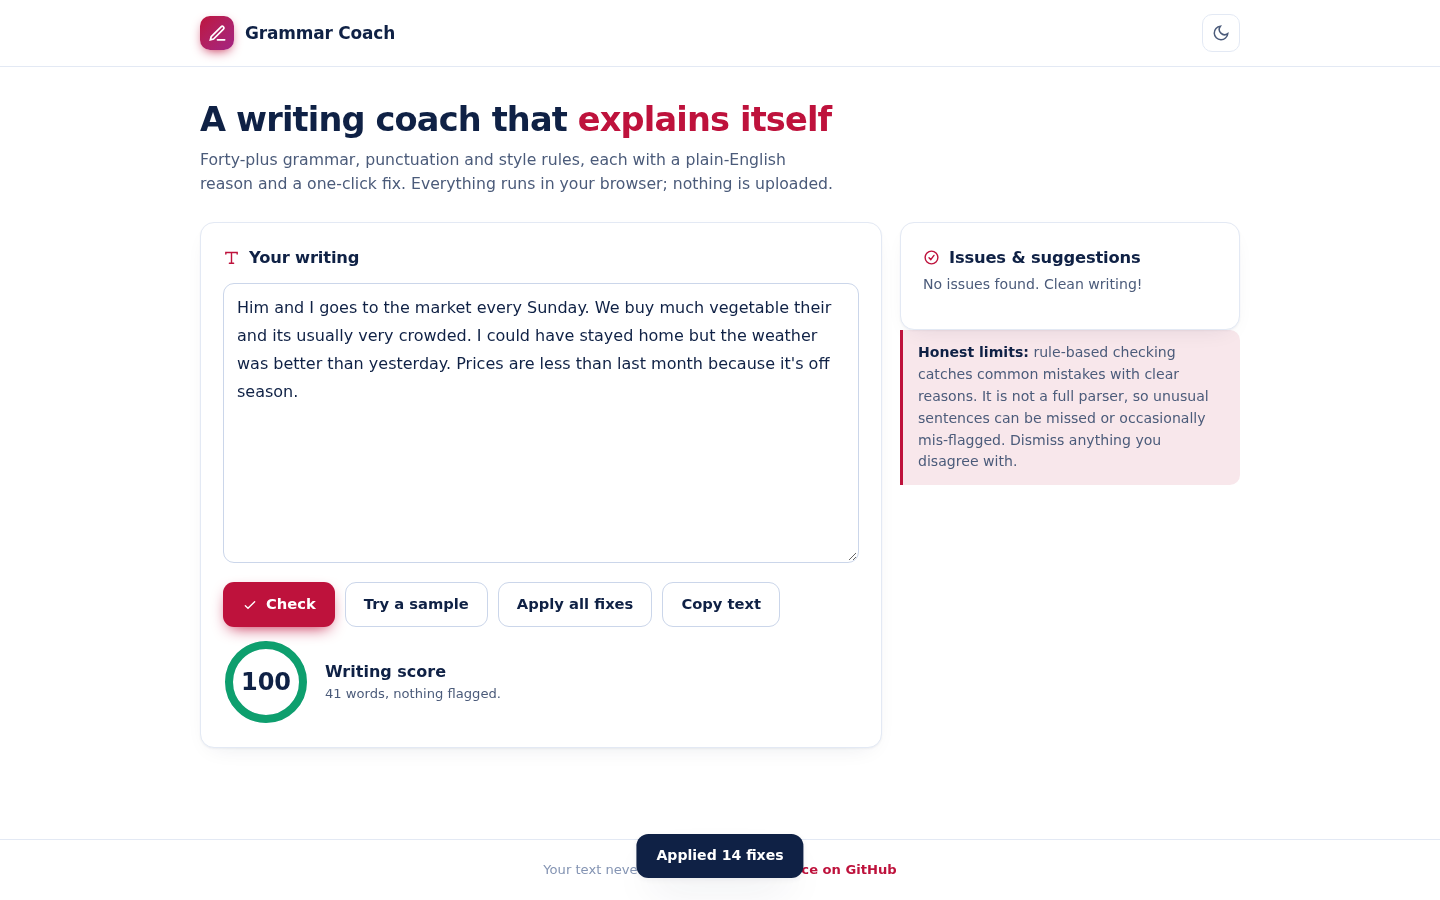
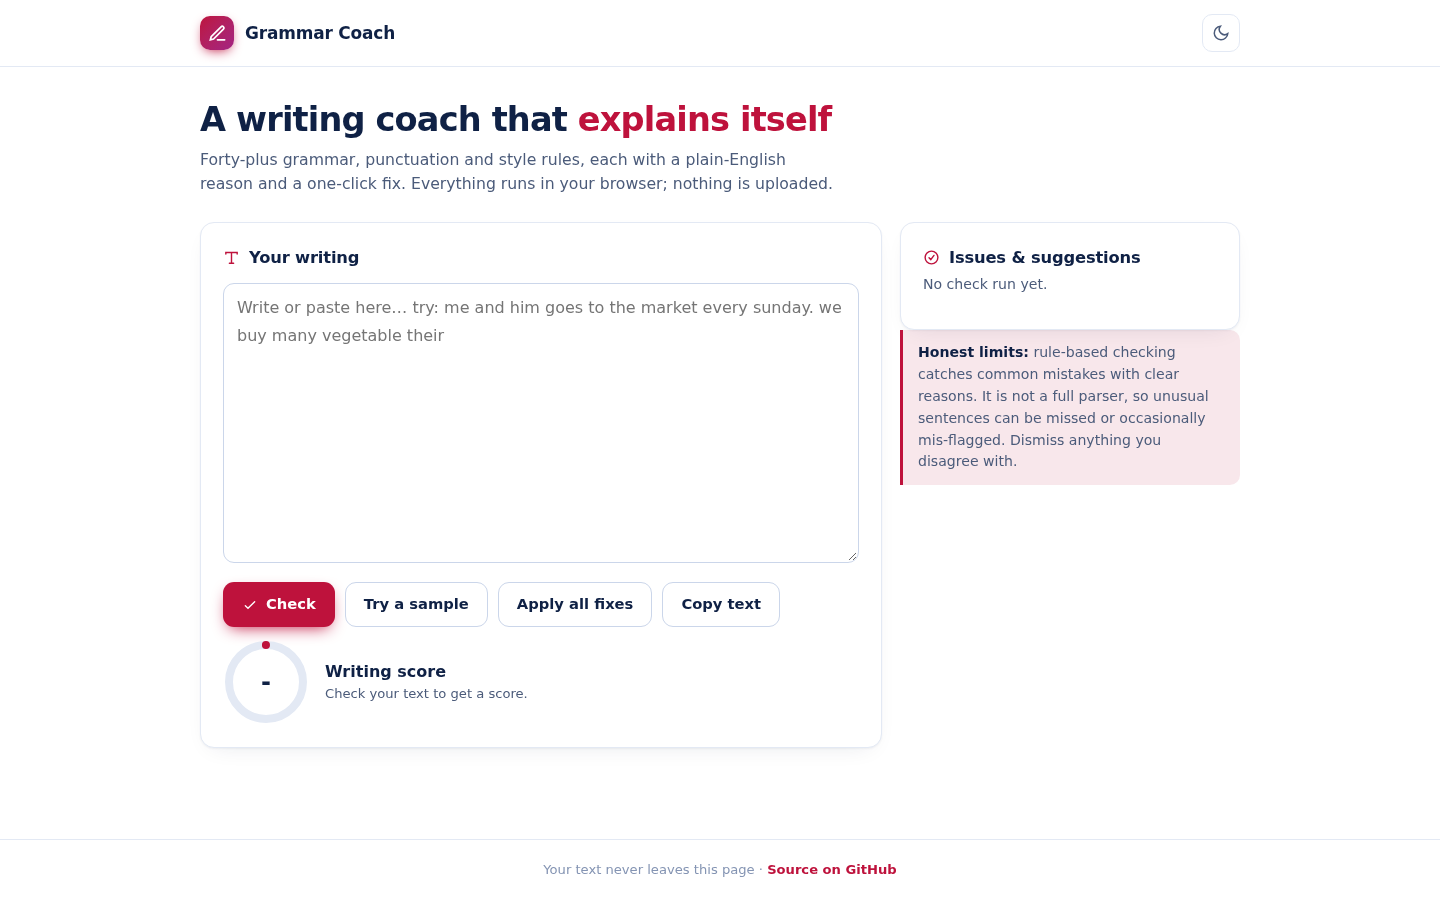
Add subject-verb agreement, subject pronoun case, and much/many countable rules

diff --git a/rules.js b/rules.js
@@ -17,11 +17,16 @@ const GRAMMAR_RULES=[
  {type:'grammar',re:/\bI\s+is\b/gi,msg:()=>`With "I", use "am".`,fix:()=>'I am'},
  {type:'grammar',re:/\b(he|she|it)\s+are\b/gi,msg:m=>`With "${m[1]}", use "is".`,fix:m=>m[1]+' is'},
  {type:'grammar',re:/\b(they|we|you)\s+is\b/gi,msg:m=>`With "${m[1]}", use "are".`,fix:m=>m[1]+' are'},
- {type:'grammar',re:/\b(he|she|it)\s+(go|do|have|say|make|take|come|run|play|eat|go|work|live|like|want|need)\b/gi,msg:m=>`Third person singular needs "${m[2]}${/[^ae]/.test(m[2][m[2].length-1])?'s':'es'}" after "${m[1]}".`,fix:m=>m[1]+' '+m[2]+(/e$/.test(m[2])?'s':'s')},
+ {type:'grammar',re:/\b(he|she|it)\s+(go|do|have|say|make|take|come|run|play|eat|work|live|like|want|need|watch|teach|study|try|fly|carry|cry|buy)\b(?!\s*[-'])/gi,msg:m=>{const v3={go:'goes',do:'does',have:'has',say:'says',make:'makes',take:'takes',come:'comes',run:'runs',play:'plays',eat:'eats',work:'works',live:'lives',like:'likes',want:'wants',need:'needs',watch:'watches',teach:'teaches',study:'studies',try:'tries',fly:'flies',carry:'carries',cry:'cries',buy:'buys'};return `With "${m[1]}", the verb takes an -s: "${v3[m[2].toLowerCase()]}".`},fix:m=>{const v3={go:'goes',do:'does',have:'has',say:'says',make:'makes',take:'takes',come:'comes',run:'runs',play:'plays',eat:'eats',work:'works',live:'lives',like:'likes',want:'wants',need:'needs',watch:'watches',teach:'teaches',study:'studies',try:'tries',fly:'flies',carry:'carries',cry:'cries',buy:'buys'};return m[1]+' '+v3[m[2].toLowerCase()]}},
  // me and X
  {type:'grammar',re:/\bme and ([A-Za-z]+)\s+(go|went|are|were|have|had|will|started|decided)/gi,msg:m=>`As the subject, use "${m[1]} and I" instead of "me and ${m[1]}".`,fix:m=>m[1]+' and I '+m[2]},
+ // object pronoun as subject: "Him and I went" -> "He and I went"
+ {type:'grammar',re:/\b(me|him|her|us|them)\s+and\s+(i|he|she|they|we|[A-Za-z]+)(?=\s+(go|goes|went|walk|walks|eat|eats|run|runs|play|plays|work|works|come|comes|is|are|was|were|have|has|will|said|decided|started|want|wants|like|likes|need|needs)\b)/gi,msg:m=>{const subj={me:'I',him:'he',her:'she',us:'we',them:'they'};return `"${m[1]}" is an object pronoun; as the subject, use "${subj[m[1].toLowerCase()]}".`},fix:m=>{const subj={me:'I',him:'he',her:'she',us:'we',them:'they'};let a=subj[m[1].toLowerCase()];a=/^[A-Z]/.test(m[0])?a[0].toUpperCase()+a.slice(1):a;let b=m[2].toLowerCase()==='i'?'I':m[2];return a+' and '+b}},
+ // compound subject takes plural verb: "Ravi and I goes" -> "Ravi and I go"
+ {type:'grammar',re:/\band\s+(i|we|they)\s+(goes|does|has|is|was|wants|needs|likes|makes|takes|comes|runs|plays|eats|works|lives|says)\b/gi,msg:m=>{const pl={goes:'go',does:'do',has:'have',is:'are',was:'were',wants:'want',needs:'need',likes:'like',makes:'make',takes:'take',comes:'come',runs:'run',plays:'play',eats:'eat',works:'work',lives:'live',says:'say'};return `A compound subject ("... and ${m[1]}") is plural; use "${pl[m[2].toLowerCase()]}" instead of "${m[2]}".`},fix:m=>{const pl={goes:'go',does:'do',has:'have',is:'are',was:'were',wants:'want',needs:'need',likes:'like',makes:'make',takes:'take',comes:'come',runs:'run',plays:'play',eats:'eat',works:'work',lives:'live',says:'say'};return m[0].replace(new RegExp(m[2]+'$'),pl[m[2].toLowerCase()])}},
  // much/many
  {type:'grammar',re:/\bmuch\s+(people|things|books|students|friends|cars|days|times|questions|problems|vegetables|fruits|items|messages|emails)\b/gi,msg:m=>`"${m[1]}" is countable; use "many".`,fix:m=>'many '+m[1]},
+ {type:'grammar',re:/\bmuch\s+(vegetable|person|book|student|friend|car|day|time|question|problem|item|message|email|thing|chair|table|phone|computer|house|shop|market|movie|song|game|child|man|woman|boy|girl)\b/gi,msg:m=>`"${m[1]}" is countable; use "many" + plural.`,fix:m=>{const pl={person:'people',child:'children',man:'men',woman:'women'};const w=m[1].toLowerCase();return 'many '+(pl[w]||(w+'s'))}},
  // less/fewer
  {type:'grammar',re:/\bless\s+(people|things|books|students|friends|cars|days|times|questions|problems|items|messages|emails)\b/gi,msg:m=>`For countable "${m[1]}", use "fewer".`,fix:m=>'fewer '+m[1]},
  // then/than

diff --git a/.test.js b/.test.js
@@ -10,6 +10,20 @@ module.exports.run = async (page, base, shot) => {
   out.push(['after fix-all', await page.evaluate(()=>document.querySelector('#input').value)]);
   out.push(['remaining', await page.evaluate(()=>document.querySelector('#issueCount').textContent)]);
   out.push(['score', await page.evaluate(()=>document.querySelector('#scoreNum').textContent)]);
+  // feedback cases (Akash): must be caught
+  const fb=await page.evaluate(()=>{
+    document.querySelector('#input').value='Him and I goes to school. he go daily. we buy much vegetable.';
+    document.querySelector('#input').dispatchEvent(new Event('input'));
+    return true;
+  });
+  await new Promise(r=>setTimeout(r,900));
+  const msgs2=await page.evaluate(()=>[...document.querySelectorAll('.issue')].map(e=>e.textContent));
+  const joined=msgs2.join(' | ');
+  out.push(['feedback issues', msgs2.length]);
+  if(!/object pronoun/.test(joined)) throw new Error('Him-and-I subject case not caught');
+  if(!/plural/.test(joined)) throw new Error('compound-subject plural not caught');
+  if(!/takes an -s/.test(joined)) throw new Error('he go not caught');
+  if(!/countable/.test(joined)) throw new Error('much vegetable not caught');
   await page.screenshot({path:shot});
   return out;
 };
